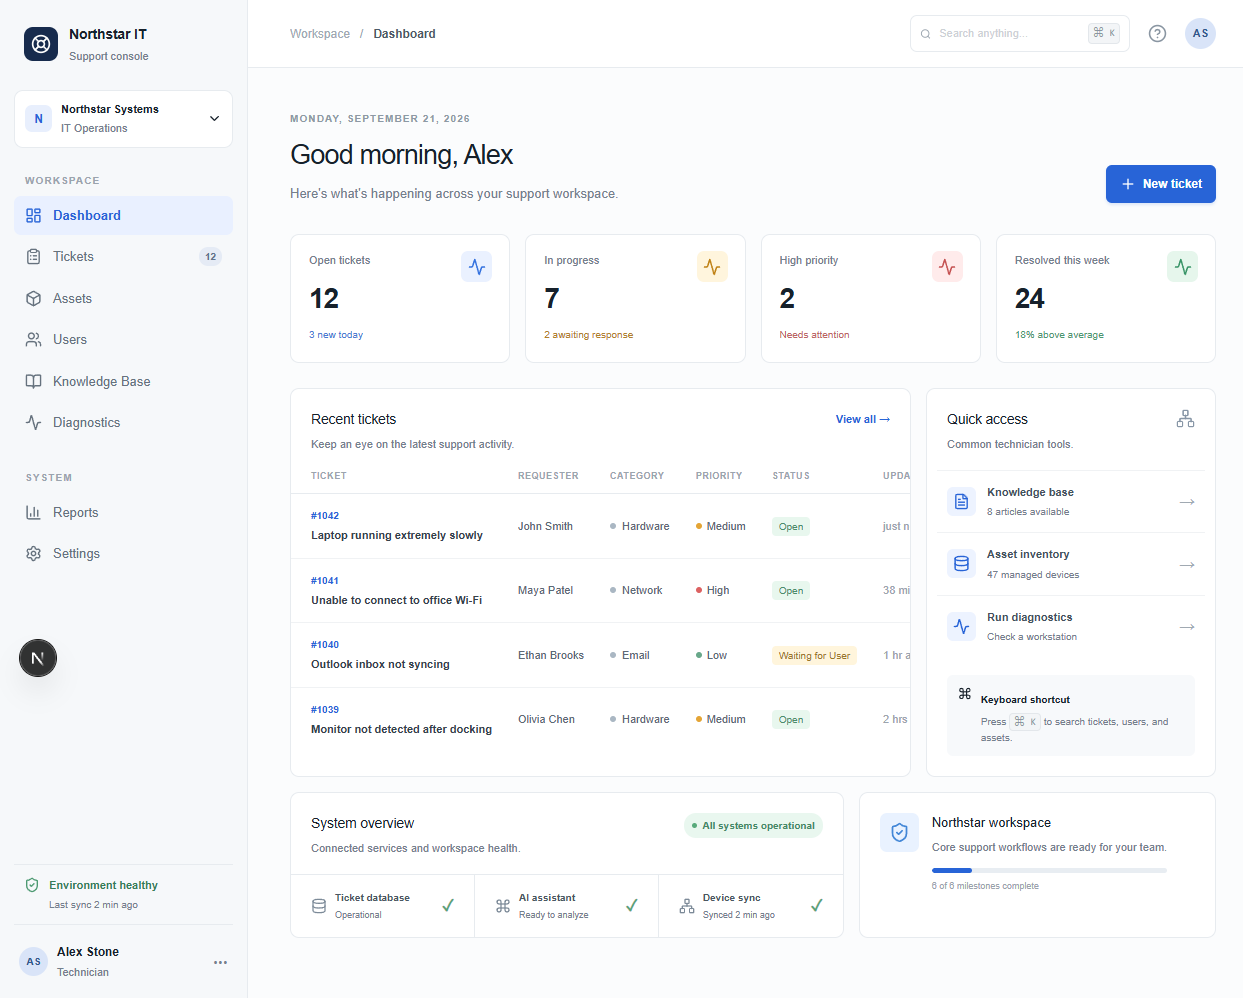
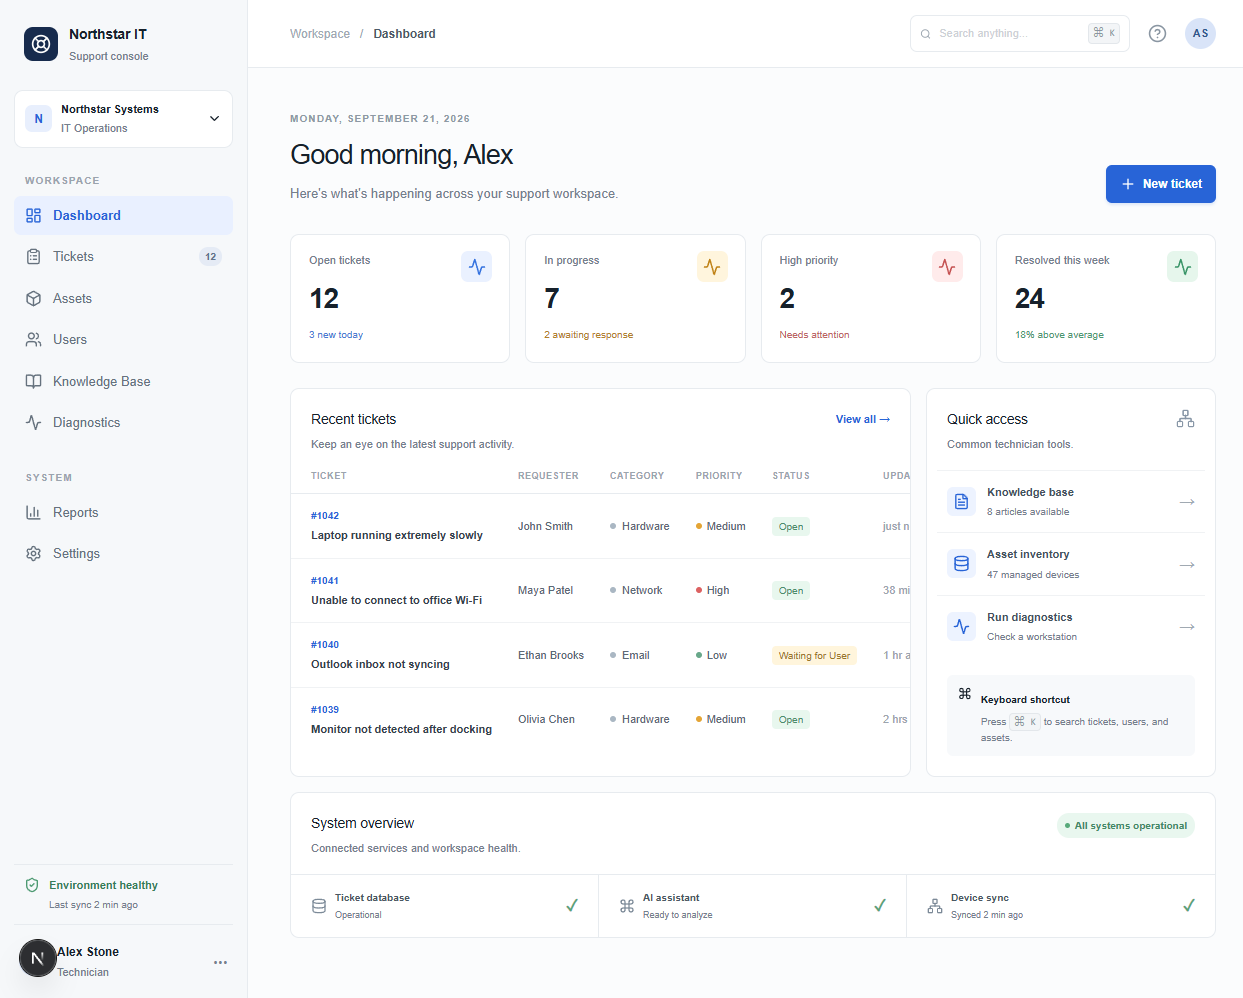
Remove dashboard milestone panel

diff --git a/app/globals.css b/app/globals.css
@@ -18,7 +18,7 @@ button { cursor: pointer; }
 .main-content { max-width: 1440px; padding: 43px 42px 60px; margin: 0 auto; }.page-heading { display: flex; justify-content: space-between; align-items: end; margin-bottom: 31px; }.eyebrow { color: #8d99a5; font-size: 10px; letter-spacing: .11em; font-weight: 700; margin: 0 0 9px; }.page-heading h1 { margin: 0; font-size: 27px; letter-spacing: -.8px; }.subtitle { color: var(--muted); margin: 8px 0 0; font-size: 13px; }.primary-button { background: var(--blue); border: 0; color: #fff; border-radius: 6px; padding: 10px 14px; display: flex; align-items: center; gap: 7px; font-size: 12px; font-weight: 700; box-shadow: 0 2px 3px #2864d725; }.primary-button:hover { background: #2158c3; }.stats-grid { display: grid; grid-template-columns: repeat(4, 1fr); gap: 15px; margin-bottom: 25px; }.stat-card, .panel { background: #fff; border: 1px solid var(--line); border-radius: 9px; }.stat-card { padding: 17px 18px 16px; position: relative; min-height: 129px; }.stat-icon { position: absolute; right: 17px; top: 16px; width: 31px; height: 31px; border-radius: 7px; display: grid; place-items: center; }.stat-blue { color: #3673df; background: #eaf1ff; }.stat-amber { color: #c08318; background: #fff5dd; }.stat-red { color: #c55353; background: #ffebeb; }.stat-green { color: #3a9568; background: #e6f6ec; }.stat-card p { color: var(--muted); font-size: 11px; margin: 0 0 9px; }.stat-card > strong { display: block; font-size: 28px; letter-spacing: -1px; }.stat-note { display: block; font-size: 10px; margin-top: 7px; }.stat-note.blue { color: #4b7bd3; }.stat-note.amber { color: #b2812b; }.stat-note.red { color: #bd6565; }.stat-note.green { color: #4d9872; }
 .dashboard-grid { display: grid; grid-template-columns: minmax(0, 1.8fr) minmax(290px, .8fr); gap: 15px; }.panel-heading { display: flex; justify-content: space-between; align-items: flex-start; padding: 20px 20px 17px; }.panel-heading h2 { margin: 0; font-size: 14px; letter-spacing: -.2px; }.panel-heading p { color: var(--muted); font-size: 11px; margin: 6px 0 0; }.text-button { border: 0; background: none; color: var(--blue); font-size: 11px; font-weight: 700; padding-top: 2px; }.text-button span { margin-left: 5px; font-size: 15px; }.table-wrap { overflow-x: auto; } table { border-collapse: collapse; width: 100%; font-size: 11px; } th { color: #9ba5ae; text-transform: uppercase; letter-spacing: .06em; font-size: 9px; text-align: left; font-weight: 700; padding: 0 13px 10px; border-bottom: 1px solid var(--line); } th:first-child, td:first-child { padding-left: 20px; } th:last-child, td:last-child { padding-right: 20px; } td { padding: 14px 13px; border-bottom: 1px solid #f0f2f4; white-space: nowrap; color: #5d6976; } tr:last-child td { border-bottom: 0; }.ticket-id, .ticket-title { display: block; }.ticket-id { color: var(--blue); font-size: 10px; margin-bottom: 4px; }.ticket-title { color: #35414c; font-weight: 700; max-width: 190px; overflow: hidden; text-overflow: ellipsis; }.category { display: flex; align-items: center; gap: 6px; }.category-dot { width: 6px; height: 6px; background: #aab7c3; border-radius: 50%; }.priority { display: flex; gap: 5px; align-items: center; }.priority > span { width: 6px; height: 6px; border-radius: 50%; }.priority-high > span { background: #dc6262; }.priority-medium > span { background: #e4a536; }.priority-low > span { background: #69a88a; }.status { font-size: 10px; padding: 4px 7px; border-radius: 4px; }.status-in-progress { color: #3969bb; background: #e9f1ff; }.status-open { color: #4b8d6b; background: #e8f7ee; }.status-waiting-for-user { color: #9b762e; background: #fff5dc; }.muted { color: #9ba4ae; }
 .quick-panel { min-width: 0; }.heading-icon { color: #8796a6; }.quick-list { padding: 0 10px 10px; }.quick-link { border: 0; border-top: 1px solid #f0f2f4; background: transparent; display: flex; align-items: center; gap: 11px; width: 100%; text-align: left; padding: 13px 10px; }.quick-link:hover { background: #fafbfc; }.quick-icon { color: var(--blue); background: #edf3ff; border-radius: 6px; width: 29px; height: 29px; display: grid; place-items: center; }.quick-link span:nth-child(2) { flex: 1; }.quick-link strong, .quick-link small { display: block; }.quick-link strong { color: #44515d; font-size: 11px; }.quick-link small { color: var(--muted); font-size: 10px; margin-top: 4px; }.arrow { color: #a0a9b2; font-size: 16px; }.tip-card { display: flex; gap: 9px; margin: 8px 20px 20px; background: #f7f9fb; padding: 11px; border-radius: 6px; }.tip-icon { width: 21px; height: 21px; color: var(--blue); background: #e4edff; border-radius: 50%; display: grid; place-items: center; flex: none; }.tip-card strong { font-size: 10px; }.tip-card p { color: var(--muted); line-height: 1.5; font-size: 10px; margin: 4px 0 0; }
-.bottom-row { display: grid; grid-template-columns: 1.55fr 1fr; gap: 15px; margin-top: 15px; }.live-pill { color: #448967; background: #e9f7ef; border-radius: 12px; padding: 5px 8px; font-size: 10px; font-weight: 700; display: flex; gap: 5px; align-items: center; }.live-pill span { width: 5px; height: 5px; background: #58aa7b; border-radius: 50%; }.system-items { display: grid; grid-template-columns: repeat(3, 1fr); border-top: 1px solid var(--line); }.system-item { display: flex; align-items: center; gap: 8px; padding: 15px 20px; border-right: 1px solid var(--line); }.system-item:last-child { border-right: 0; }.system-icon { color: #7c8a98; }.system-item span:nth-child(2) { flex: 1; }.system-item strong, .system-item small { display: block; }.system-item strong { font-size: 10px; color: #4b5763; }.system-item small { font-size: 9px; color: var(--muted); margin-top: 4px; }.check { color: #58a377; font-weight: 700; }.onboarding-panel { display: flex; gap: 13px; padding: 20px; align-items: flex-start; }.onboarding-mark { color: #4387d7; background: #e9f2ff; border-radius: 7px; padding: 9px; }.onboarding-panel h2 { font-size: 13px; margin: 0; }.onboarding-panel p { font-size: 11px; color: var(--muted); line-height: 1.5; margin: 6px 0 13px; }.progress { height: 5px; border-radius: 5px; background: #e8edf2; overflow: hidden; }.progress span { display: block; height: 100%; width: 17%; background: var(--blue); border-radius: inherit; }.onboarding-panel small { color: #9aa4ae; display: block; font-size: 9px; margin-top: 7px; }
+.bottom-row { margin-top: 15px; }.live-pill { color: #448967; background: #e9f7ef; border-radius: 12px; padding: 5px 8px; font-size: 10px; font-weight: 700; display: flex; gap: 5px; align-items: center; }.live-pill span { width: 5px; height: 5px; background: #58aa7b; border-radius: 50%; }.system-items { display: grid; grid-template-columns: repeat(3, 1fr); border-top: 1px solid var(--line); }.system-item { display: flex; align-items: center; gap: 8px; padding: 15px 20px; border-right: 1px solid var(--line); }.system-item:last-child { border-right: 0; }.system-icon { color: #7c8a98; }.system-item span:nth-child(2) { flex: 1; }.system-item strong, .system-item small { display: block; }.system-item strong { font-size: 10px; color: #4b5763; }.system-item small { font-size: 9px; color: var(--muted); margin-top: 4px; }.check { color: #58a377; font-weight: 700; }
 @media (max-width: 1050px) { .stats-grid { grid-template-columns: repeat(2, 1fr); }.dashboard-grid, .bottom-row { grid-template-columns: 1fr; } }
 @media (max-width: 760px) { .sidebar { position: fixed; inset: 0 auto 0 0; z-index: 10; transform: translateX(-100%); transition: transform .2s ease; box-shadow: 8px 0 30px #17212b20; }.sidebar-open { transform: translateX(0); }.mobile-close { display: block; margin-left: auto; border: 0; background: transparent; color: var(--muted); }.menu-button { display: grid; border: 0; background: transparent; color: var(--ink); padding: 0; }.topbar { padding: 0 18px; gap: 15px; }.breadcrumb { margin-right: auto; }.search-box { width: 32px; border: 0; padding: 0; }.search-box input, .search-box kbd { display: none; }.topbar-actions { gap: 13px; }.main-content { padding: 28px 18px 40px; }.page-heading { align-items: flex-start; gap: 20px; flex-direction: column; }.page-heading h1 { font-size: 24px; }.stats-grid { gap: 10px; }.stat-card { min-height: 120px; padding: 14px; }.stat-card > strong { font-size: 25px; }.stat-icon { right: 12px; top: 13px; }.system-items { grid-template-columns: 1fr; }.system-item { border-right: 0; border-bottom: 1px solid var(--line); }.system-item:last-child { border-bottom: 0; } }
 @media (max-width: 430px) { .stats-grid { grid-template-columns: 1fr 1fr; }.stats-grid .stat-card p { max-width: 60px; line-height: 1.3; }.top-avatar { display: none; } }

diff --git a/app/page.tsx b/app/page.tsx
@@ -42,7 +42,7 @@ export default function Page() {
   </div>
 }
 
-function Dashboard({ tickets, onNew, onSelect, onNavigate }: { tickets: Ticket[]; onNew: () => void; onSelect: (t: Ticket) => void; onNavigate: (s: string) => void }) { return <><section className="page-heading"><div><p className="eyebrow">MONDAY, SEPTEMBER 21, 2026</p><h1>Good morning, Alex</h1><p className="subtitle">Here&apos;s what&apos;s happening across your support workspace.</p></div><button className="primary-button" onClick={onNew}><Plus size={16} /> New ticket</button></section><section className="stats-grid"><Stat label="Open tickets" value="12" note="3 new today" tone="blue" /><Stat label="In progress" value="7" note="2 awaiting response" tone="amber" /><Stat label="High priority" value="2" note="Needs attention" tone="red" /><Stat label="Resolved this week" value="24" note="18% above average" tone="green" /></section><section className="dashboard-grid"><div className="panel tickets-panel"><div className="panel-heading"><div><h2>Recent tickets</h2><p>Keep an eye on the latest support activity.</p></div><button className="text-button" onClick={() => onNavigate('Tickets')}>View all →</button></div><TicketTable tickets={tickets.slice(0, 4)} onSelect={onSelect} /></div><QuickPanel onNavigate={onNavigate} /></section><section className="bottom-row"><div className="panel system-panel"><div className="panel-heading"><div><h2>System overview</h2><p>Connected services and workspace health.</p></div><span className="live-pill"><span /> All systems operational</span></div><div className="system-items"><SystemItem label="Ticket database" value="Operational" icon={<Database size={16} />} /><SystemItem label="AI assistant" value="Ready to analyze" icon={<Command size={16} />} /><SystemItem label="Device sync" value="Synced 2 min ago" icon={<Network size={16} />} /></div></div><div className="panel onboarding-panel"><div className="onboarding-mark"><ShieldCheck size={21} /></div><div><h2>Northstar workspace</h2><p>Core support workflows are ready for your team.</p><div className="progress"><span /></div><small>6 of 6 milestones complete</small></div></div></section></> }
+function Dashboard({ tickets, onNew, onSelect, onNavigate }: { tickets: Ticket[]; onNew: () => void; onSelect: (t: Ticket) => void; onNavigate: (s: string) => void }) { return <><section className="page-heading"><div><p className="eyebrow">MONDAY, SEPTEMBER 21, 2026</p><h1>Good morning, Alex</h1><p className="subtitle">Here&apos;s what&apos;s happening across your support workspace.</p></div><button className="primary-button" onClick={onNew}><Plus size={16} /> New ticket</button></section><section className="stats-grid"><Stat label="Open tickets" value="12" note="3 new today" tone="blue" /><Stat label="In progress" value="7" note="2 awaiting response" tone="amber" /><Stat label="High priority" value="2" note="Needs attention" tone="red" /><Stat label="Resolved this week" value="24" note="18% above average" tone="green" /></section><section className="dashboard-grid"><div className="panel tickets-panel"><div className="panel-heading"><div><h2>Recent tickets</h2><p>Keep an eye on the latest support activity.</p></div><button className="text-button" onClick={() => onNavigate('Tickets')}>View all →</button></div><TicketTable tickets={tickets.slice(0, 4)} onSelect={onSelect} /></div><QuickPanel onNavigate={onNavigate} /></section><section className="bottom-row"><div className="panel system-panel"><div className="panel-heading"><div><h2>System overview</h2><p>Connected services and workspace health.</p></div><span className="live-pill"><span /> All systems operational</span></div><div className="system-items"><SystemItem label="Ticket database" value="Operational" icon={<Database size={16} />} /><SystemItem label="AI assistant" value="Ready to analyze" icon={<Command size={16} />} /><SystemItem label="Device sync" value="Synced 2 min ago" icon={<Network size={16} />} /></div></div></section></> }
 function Stat({ label, value, note, tone }: { label: string; value: string; note: string; tone: string }) { return <div className="stat-card"><div className={`stat-icon stat-${tone}`}><Activity size={18} /></div><p>{label}</p><strong>{value}</strong><span className={`stat-note ${tone}`}>{note}</span></div> }
 function TicketTable({ tickets, onSelect }: { tickets: Ticket[]; onSelect: (t: Ticket) => void }) { return <div className="table-wrap"><table><thead><tr><th>Ticket</th><th>Requester</th><th>Category</th><th>Priority</th><th>Status</th><th>Updated</th></tr></thead><tbody>{tickets.map(t => <tr key={t.id} onClick={() => onSelect(t)} className="clickable"><td><strong className="ticket-id">{t.id}</strong><span className="ticket-title">{t.title}</span></td><td>{t.requester}</td><td><span className="category"><span className="category-dot" />{t.category}</span></td><td><span className={`priority priority-${t.priority.toLowerCase()}`}><span />{t.priority}</span></td><td><span className={`status status-${t.status.toLowerCase().replaceAll(' ', '-')}`}>{t.status}</span></td><td className="muted">{t.updated}</td></tr>)}</tbody></table></div> }
 function TicketList({ tickets, onSelect, onNew, query }: { tickets: Ticket[]; onSelect: (t: Ticket) => void; onNew: () => void; query: string }) { return <><section className="page-heading"><div><p className="eyebrow">WORKSPACE / TICKETS</p><h1>Tickets</h1><p className="subtitle">Track, assign, and resolve employee support requests.</p></div><button className="primary-button" onClick={onNew}><Plus size={16} /> New ticket</button></section><div className="panel"><div className="filter-bar"><span>{tickets.length} tickets{query && ` matching “${query}”`}</span><select aria-label="Filter by status"><option>All statuses</option><option>Open</option><option>In Progress</option><option>Resolved</option></select><select aria-label="Filter by priority"><option>All priorities</option><option>High</option><option>Critical</option></select></div><TicketTable tickets={tickets} onSelect={onSelect} /></div></> }
